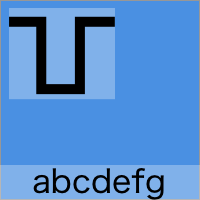
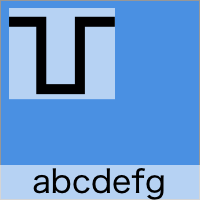
update transparency for black font

diff --git a/app/Services/GeneratorService.php b/app/Services/GeneratorService.php
@@ -19,7 +19,7 @@ class GeneratorService
     {
         if (strpos($template, 'black') !== false) {
             $this->color = '#000';
-            $this->backgroundColor = [255, 255, 255, 0.3];
+            $this->backgroundColor = [255, 255, 255, 0.6];
         }
 
         $this->photoCanvas = $this->generatePhotoCanvas($divingLog->photo);
